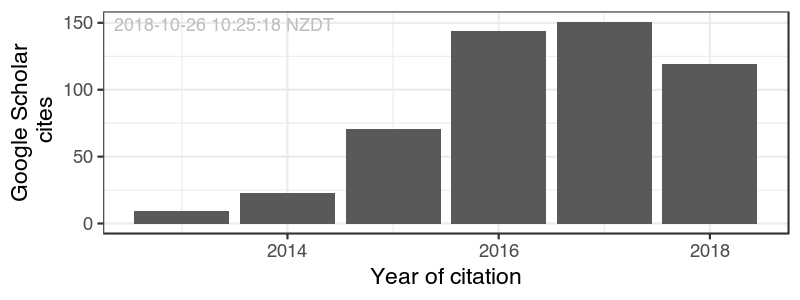
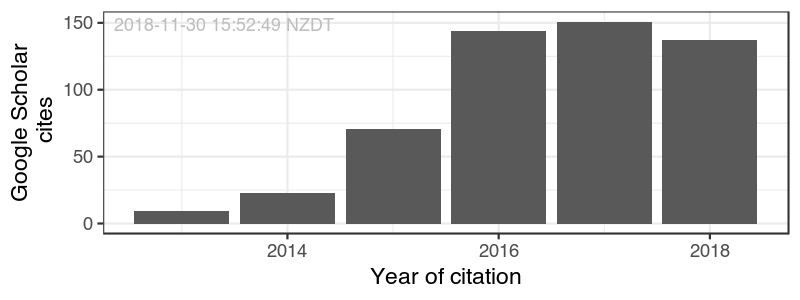
updated publications

Changed region(s): [[0.8125, 0.12, 0.9688, 0.24], [0.2812, 0.06, 0.3438, 0.12], [0.2188, 0.06, 0.25, 0.09]]

diff --git a/index.md b/index.md
@@ -124,7 +124,7 @@ A course designed to walk Research Supervisors through the frameworks and pragma
 
 * Journal articles: __33__	
 * H-index: __12__
-* Citations: __523__
+* Citations: __541__
 
 ## Publications
 
@@ -132,9 +132,11 @@ A course designed to walk Research Supervisors through the frameworks and pragma
 `2018`
 **Benton MC**, Smith RA, Haupt LM, Albury CL, Maksemous N, Lea RA, and Griffiths LR. (2018) A Customisable Analysis Pipeline for Identification of Clinically Relevant Genetic Variants in Next Generation Sequencing Data. *Journal of Molecular Diagnostics* (under submision)
 
-Macartney-Coxson D, Cameron A, Clapham J, and **Benton MC**. (2018) DNA methylation in blood - potential to provide new insights in immune cell biology. *Scientific Reports* (under review)
+Macartney-Coxson D, Cameron A, Clapham J, and **Benton MC**. (2018) DNA methylation in blood - potential to provide new insights in immune cell biology. *Frontiers in Immunology* (under submission)
 
-MaltbyV, Lea RA, Graves M, Sanders K, **Benton MC**, Tajouri L, Scott R, and Lechner-Scott J. (2018) A hypermethylated region in the promoter of the lymphotoxin-alpha gene in CD19+ B cells is associated with multiple sclerosis. *Scientific Reports* (accepted, 18th Oct 2018)
+Kennedy D, White NM, **Benton MC**, Fox A, Scott R, Griffiths LR, Mengersen KL and Lea RA. 2018 Critical evaluation of linear regression models for cell-subtype specific methylation signal from mixed blood cell DNA. *PLoS ONE* (accepted 27th Nov 2018)
+
+MaltbyV, Lea RA, Graves M, Sanders K, **Benton MC**, Tajouri L, Scott R, and Lechner-Scott J. (2018) Genome-wide DNA methylation changes in CD19+ B cells from relapsing-remitting multiple sclerosis patients. *Scientific Reports* (published 27th November 2018)
 
 Aquino EM, **Benton MC**, Haupt LM, Sutherland HG, Griffiths LR, and Lea RA. (2018) Current understanding of DNA methylation and age-related disease. *OBM Genetics* 2(2) [DOI:10.21926/obm.genet.1802016]
 
